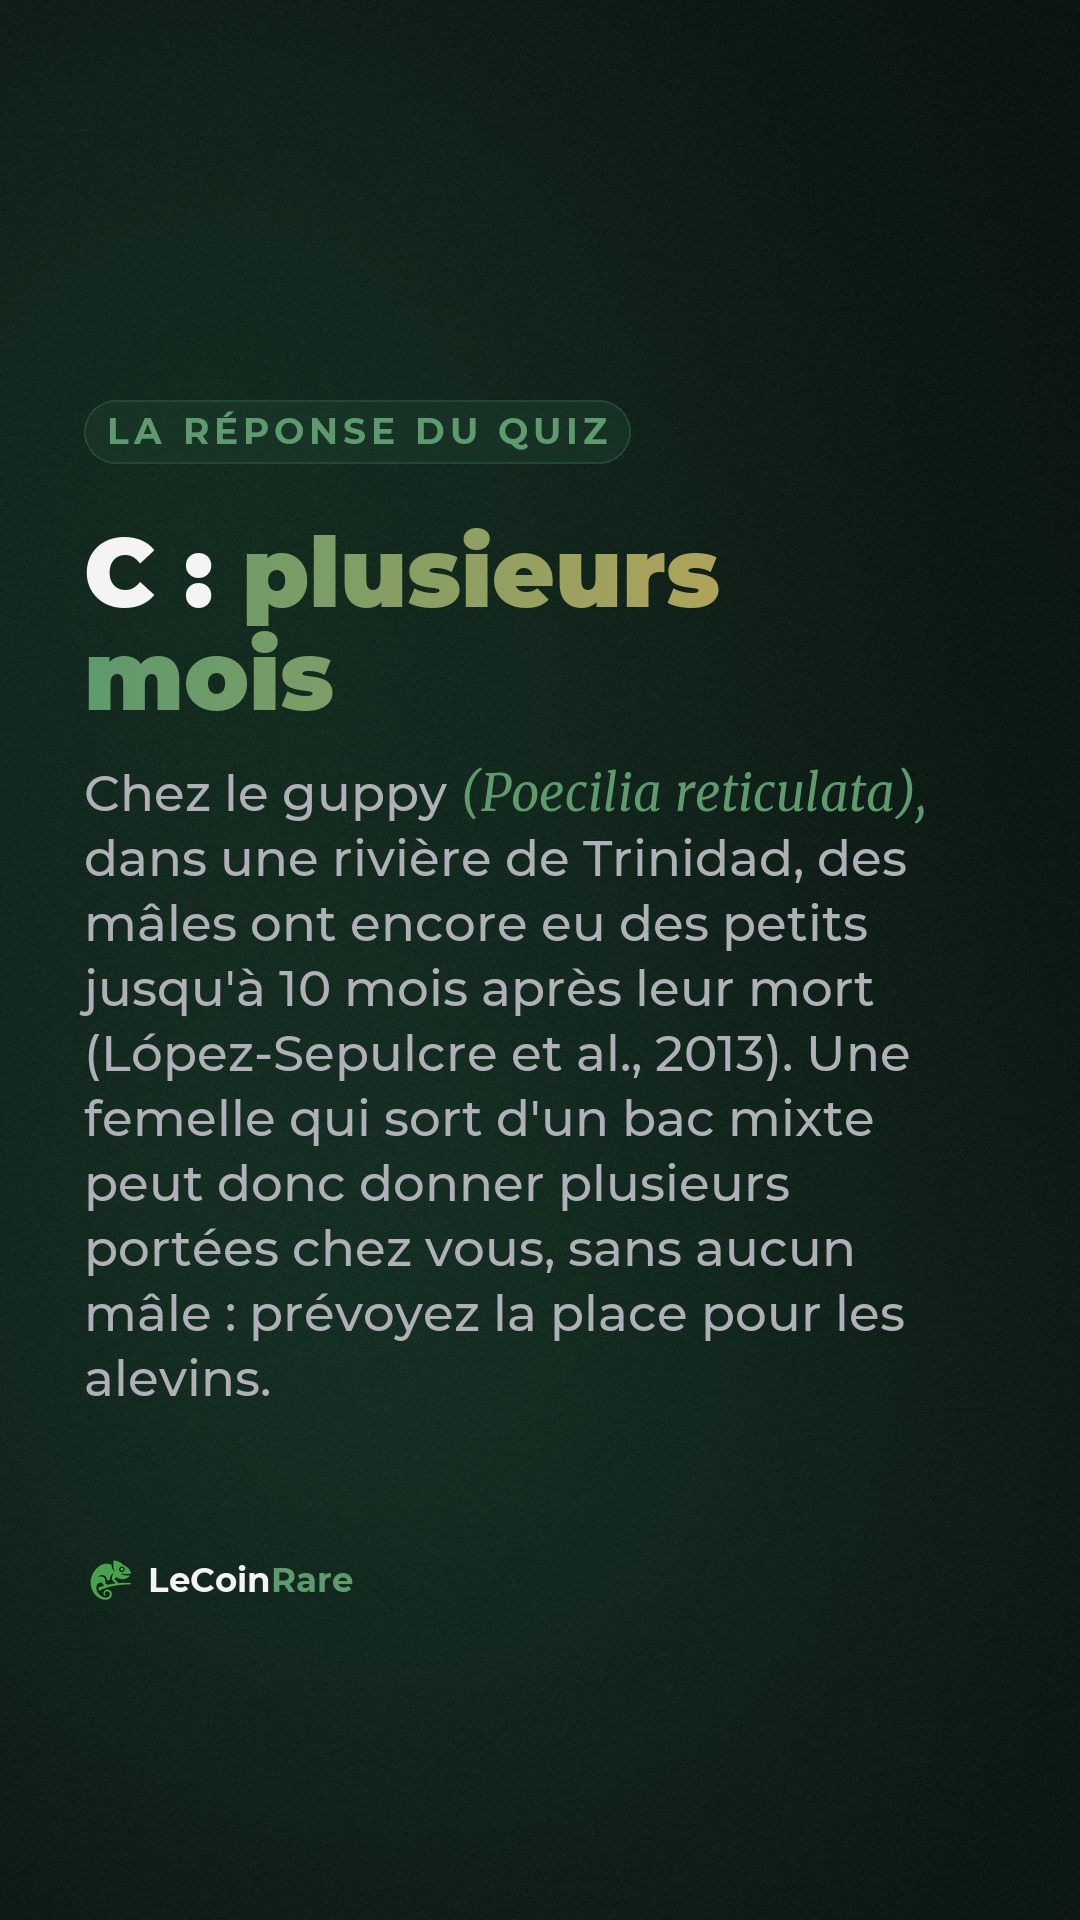
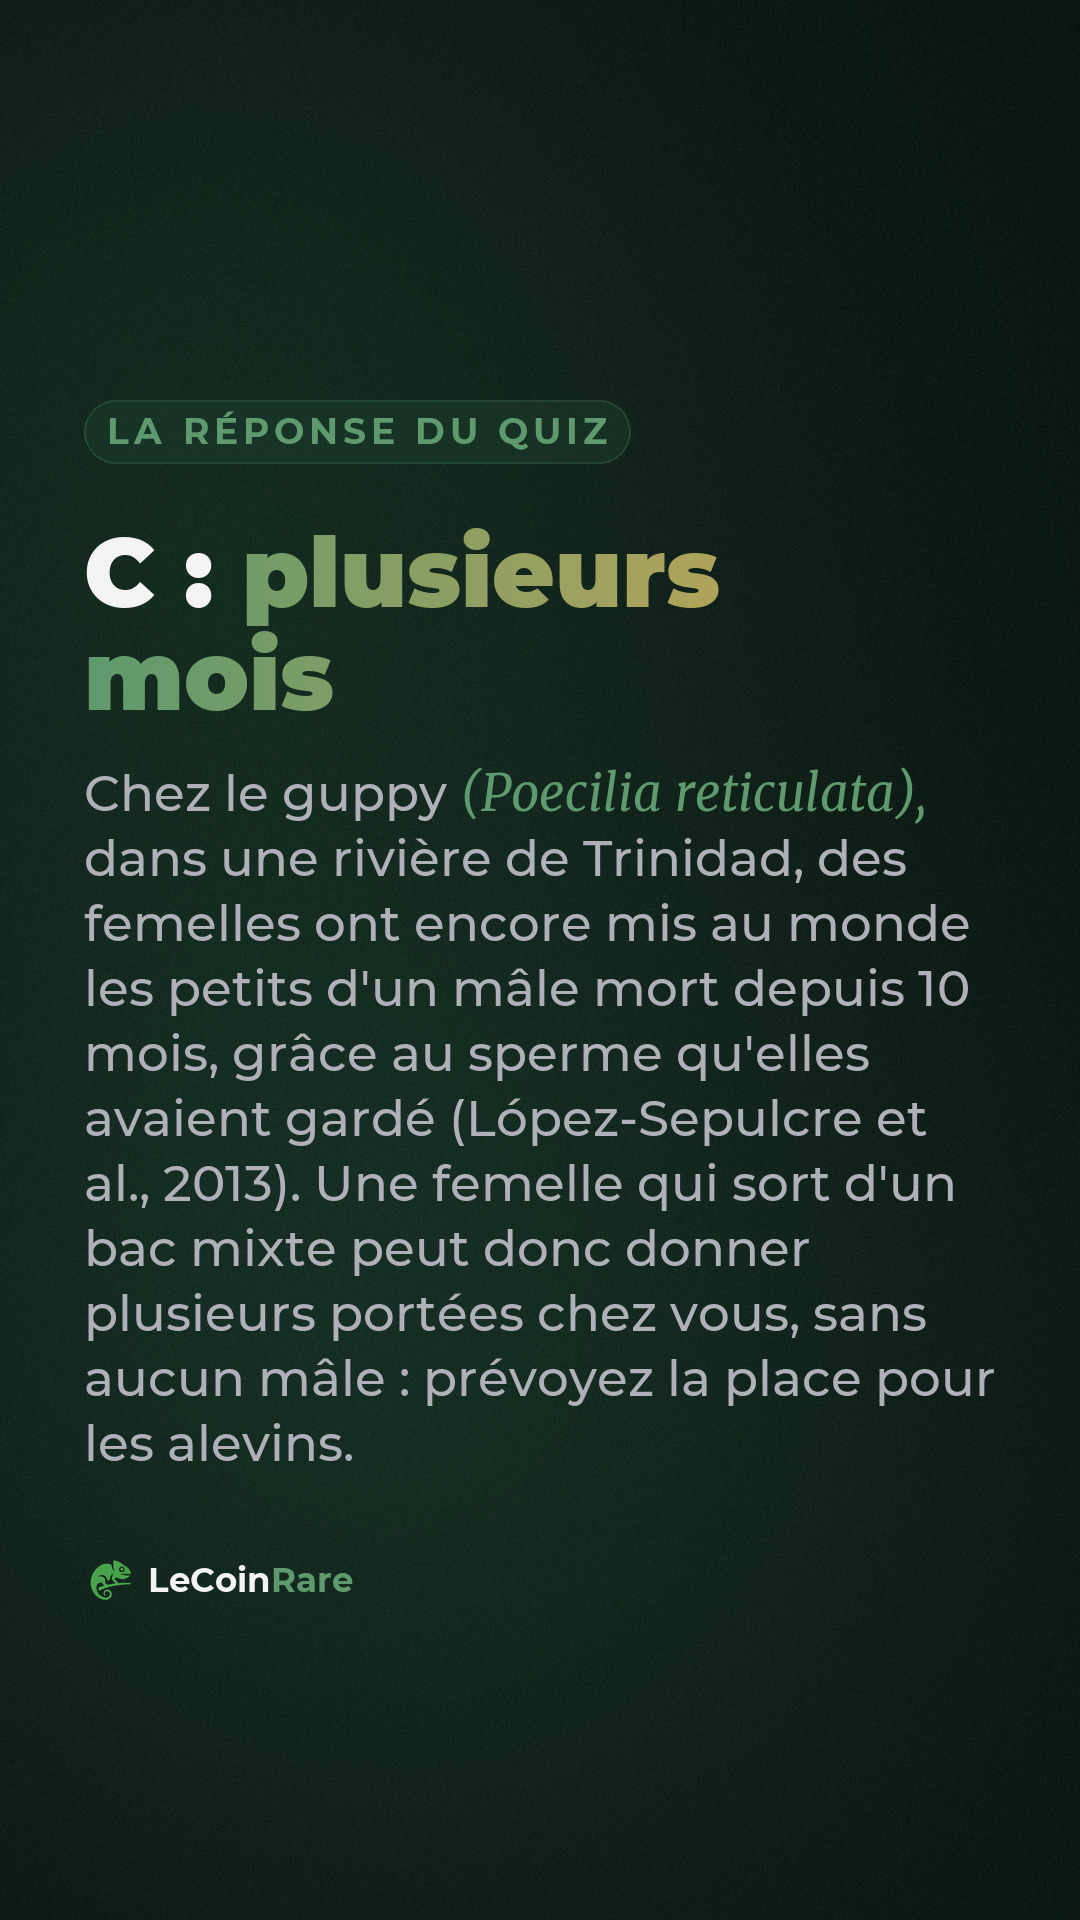
Lot du 16 au 22 nov. : carrousels UVB (zones de Ferguson) et coupure de courant, 7 stories ; story savoir avec question A/B

Changed region(s): [[0.0611, 0.4688, 0.9167, 0.7812]]

diff --git a/generateur/story.py b/generateur/story.py
@@ -59,7 +59,12 @@ def story_savoir(img, s):
             taille -= 2  # la carte ne doit pas toucher le logo ni la barre de réponse
         c.texte_en_carte(img, s["text"], y + 40, size=taille)
     elif s.get("text"):
-        c.rich(img, s["text"], y + 40, "medium", 50, charte.GRIS, gap=1.3)
+        y = c.rich(img, s["text"], y + 40, "medium", s.get("text_size", 50), charte.GRIS, gap=1.3)
+    if s.get("options"):  # le savoir se termine par une question A/B (bilan du 09/11 : 0 réponse sans question)
+        if s.get("question"):
+            y = c.rich(img, s["question"], y + 50, "bold", 56, charte.BLANC, gap=1.2)
+        y = options(img, s["options"][:3], y + 30, letters=True, h=104, pas=124)
+        consigne(img, s, y, len(s["options"][:3]))
     return img
 
 
